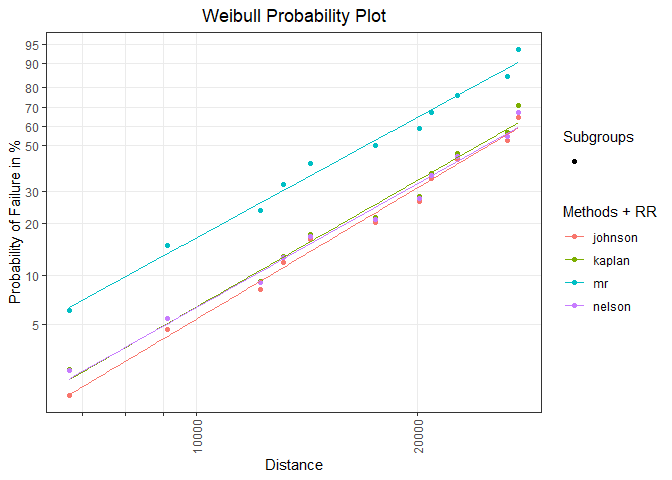
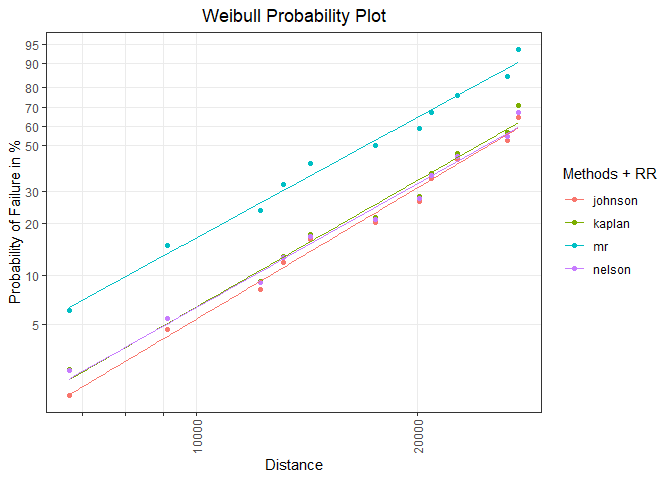
Closes #160. In addition: improved color label of ggplot2 plots

Changed region(s): [[0.8438, 0.4062, 0.9688, 0.6562], [0.8125, 0.3438, 1.0, 0.375], [0.8438, 0.25, 0.9375, 0.3125]]

diff --git a/docs/reference/index.html b/docs/reference/index.html
@@ -353,6 +353,12 @@
           <p><code><a href="plot_conf.html">plot_conf()</a></code> </p>
         </td>
         <td><p>Add Confidence Region(s) for Quantiles and Probabilities</p></td>
+      </tr><tr>
+        
+        <td>
+          <p><code><a href="plot_conf.default.html">plot_conf(<i>&lt;default&gt;</i>)</a></code> </p>
+        </td>
+        <td><p>Add Confidence Region(s) for Quantiles and Probabilities</p></td>
       </tr>
     </tbody><tbody>
       <tr>
@@ -471,12 +477,6 @@
         </td>
         <td><p>Add Estimated Population Lines of a Separated Mixture Model to a
 Probability Plot</p></td>
-      </tr><tr>
-        
-        <td>
-          <p><code><a href="plot_conf.default.html">plot_conf(<i>&lt;default&gt;</i>)</a></code> </p>
-        </td>
-        <td><p>Add Confidence Region(s) for Quantiles and Probabilities</p></td>
       </tr><tr>
         
         <td>

diff --git a/NEWS.md b/NEWS.md
@@ -1,72 +1,86 @@
 # weibulltools v2.0.0
 ## Breaking Changes
 * Package now depends on R(>= 3.5.0)
-* Renamed argument `event` with `status`.
-* Renamed argument `loc_sc_params` with `dist_params`.
-* Renamed argument `loc_sc_varcov` with `dist_varcov`.
-* Output of probability estimators: Renamed column `characteristic` with `x`.
-* Output of parameter estimators: Renamed and changed content of list elements. See `?ml_estimation` and `?rank_regression`.
-* Switched position of arguments `distribution` and `direction` in `plot_conf()`.
-* Removed `details` argument from `ml_estimation()` and `rank_regression()`.
-* `plot_pop()`: Added argument `tol` to restrict the range of failure probabilities. Removed argument `color`. Renamed argument `params` to `dist_params_tbl`, which only supports location and scale parameters (also for `distribution = "weibull"`). Changed behaviour of `dist_params_tbl`: A tibble is now recommended instead of a vector.
-* `plot_prob_mix`: Removed default value `NULL` for argument `mix_output`.
-* `dist_mileage()`: Removed `status` argument and switched argument positions of `x` and `mileage`  -> (`mileage`, `x`, `distribution`). Argument `x` was renamed to `time`.
-* `mcs_mileage()`: Removed arguments `seed` and `details`, incorporated new default argument `id`. For now, the argument `status` is optional. Argument positions of `x` and `mileage` are switched -> (`mileage`, `x`). Argument `x` was renamed to `time`. 
-* `mcs_delay_register()`, `mcs_delay_report()`, `mcs_delays()`: Argument `seed` and element `int_seed` of the output list have been removed. For reproducibility use `set.seed()` before calling one of these functions. Argument `x` was renamed to `time`.  
-* `confint_betabinom.default()` and `confint_fisher.default()`: New argument `b_lives`.
-* `loglik_function()`: Renamed argument `pars` with `dist_params`. 
-* `mixmod_em()`: Removed argument `post`.
+
+### Non-Parametric Failure Probabilities
+* `mr_method()`: Deprecated, use `estimate_cdf()` instead. Renamed output column `characteristic` with `x`. Set default value for `id` to `NULL`.
+* `johnson_method()`: Deprecated, use `estimate_cdf()` instead. Renamed output column `characteristic` with `x`. Set default value for `id` to `NULL`.
+* `kaplan_method()`: Deprecated, use `estimate_cdf()` instead. Renamed output column `characteristic` with `x`. Set default value for `id` to `NULL`.
+* `nelson_method()`: Deprecated, use `estimate_cdf()` instead. Renamed output column `characteristic` with `x`. Set default value for `id` to `NULL`.
+* `plot_prob.default()` (former `plot_prob()`): Renamed `event` with `status`.
+* `plot_prob_mix()`: Deprecated, use `plot_prob()` instead. Removed default value `NULL` for argument `mix_output`. Renamed `event` with `status`.
+
+### Parametric Models
+* `ml_estimation.default()` (former `ml_estimation()`): Renamed `event` with `status`. Removed `details`. Changed names and contents of list elements in output. See `?ml_estimation`.
+* `loglik_function`: Renamed `event` with `status`. Renamed `pars` with `dist_params`.
+* `rank_regression.default()` (former `rank_regression()`): Renamed `event` with `status`. Removed `details`. Changed names and contents of list elements in output. See `?rank_regression`.
+* `mixmod_em.default()` (former `mixmod_em()`): Renamed `event` with `status`. Removed `post`.
+* `mixmod_regression.default()` (former `mixmod_regression()`): Renamed `event` with `status`. 
+* `predict_prob()`: Renamed `loc_sc_params` with `dist_params`.
+* `predict_quantile()`: Renamed `loc_sc_params` with `dist_params`.
+* `plot_mod.default()` (former `plot_mod()`): Renamed `event` with `status`. Renamed `loc_sc_params` with `dist_params`. Removed `y`.
+* `plot_mod_mix()`: Deprecated, use `plot_mod()` instead. Renamed `event` with `status`.
+* `plot_pop()`: Added argument `tol` to restrict the range of failure probabilities. Removed argument `color`. Renamed argument `params` to `dist_params_tbl`, which only supports location and scale parameters (also for `distribution = "weibull"`). Changed behaviour of `dist_params_tbl`: A `tibble` is now recommended instead of a vector.
+
+### Confidence Intervals
+* `confint_betabinom.default()` (former `confint_betabinom()`): Renamed `event` with `status`. Renamed `loc_sc_params` with `dist_params`. Added argument `b_lives` which allows the user to specify probabilities of interest.
+* `confint_fisher.default()` (former `confint_fisher()`): Renamed `event` with `status`. Renamed `loc_sc_params` with `dist_params`. Renamed `loc_sc_varcov` with `dist_varcov`. Added argument `b_lives` which allows the user to specify probabilities of interest.
+* `delta_method()`: Renamed `loc_sc_params` with `dist_params`. Renamed `loc_sc_varcov` with `dist_varcov`.
+* `plot_conf.default()` (former `plot_conf()`): Switched position of arguments `direction` and `distribution`.
+
+### Monte Carlo Simulation
+* `dist_delay_register()`: Deprecated, use `dist_delay()` instead.
+* `dist_delay_report()`: Deprecated, use `dist_delay()` instead.
+* `mcs_delay_register()`: Deprecated, use `mcs_delay()` instead. Renamed `x` with `time`. Renamed `event` with `status`. Removed `seed` and `int_seed` from output.
+* `mcs_delay_report()`: Deprecated, use `mcs_delay()` instead. Renamed `x` with `time`. Renamed `event` with `status`. Removed `seed` and `int_seed` from output.
+* `mcs_delays()`: Deprecated, use `mcs_delay()` instead. Renamed `x` with `time`. Renamed `event` with `status`. Removed `seed` and `int_seed` from output.
+* `dist_mileage()`: Removed `event`. Renamed `x` with `time`. Switched position of arguments `time` and `mileage`.
+* `mcs_mileage()`: Removed `event`. Renamed `x` with `time`. Switched position of arguments `time` and `mileage`.
 
 ## New Features
 * Added support for ggplot2 in all plot functions. Plot method can be selected in `plot_prob()` or `plot_pop()` via argument `plot_method`.
-* Added function `reliability_data()`: Create consistent reliability data.
+* Added `reliability_data()`: Create consistent reliability data.
 * New argument in `mr_method()`: With `ties.method` it can be specified how ties should be treated.
 * Added `estimate_cdf()`: Unite functionality of `mr_method()`, `johnson_method()`, `kaplan_method()` and `nelson_method()`.
-* Support of multiple methods in `estimate_cdf()` and all functions that depend on the `cdf_estimation` (`rank_regression()`, `plot_prob()`, `plot_mod()`, `plot_conf()`, `mixmod_regression()`, `plot_prob_mix()`, `plot_mod_mix()`).
+* Support of multiple methods in `estimate_cdf()` and all functions that depend on the `cdf_estimation` (`rank_regression()`, `plot_prob()`, `plot_mod()`, `plot_conf()`, `mixmod_regression()`).
 * Added `print.rank_regression()`, `print.ml_estimation()`, `print.model_estimation()` and `print.model_estimation_list()`.
 * Added `vcov.model_estimation()`.
-* Added function `dist_delay()`: Generalizes the distribution-specific modeling of delays. 
-* Added function `mcs_delay()`: Generalizes the adjustment of operating times by delays and supports multiple delays at once.
+* Added `dist_delay()`: Generalizes the distribution-specific modeling of delays. 
+* Added `mcs_delay()`: Generalizes the adjustment of operating times by delays and supports multiple delays at once.
 * Added lifecycle badges
-
-## Minor Changes
 
 ## Introduction of S3 interface
 * `rank_regression()` is now an S3 generic. `rank_regression()` becomes `rank_regression.default()`. Added `rank_regression.cdf_estimation()`.
-* `plot_prob()` is now an S3 generic. `plot_prob()` becomes `plot_prob.default()`. Added `plot_prob.cdf_estimation()`.
-* `plot_prob_mix()` is now an S3 generic. `plot_prob_mix()` becomes `plot_prob.default()`. Added `plot_prob_mix.model_estimation()`, `plot_prob_mix.mixmod_regression()` and `plot_prob_mix.mixmod_em()`.
+* `plot_prob()` is now an S3 generic. `plot_prob()` becomes `plot_prob.default()`. Added `plot_prob.cdf_estimation()`, `plot_prob.model_estimation()`, `plot_prob.mixmod_regression()`, `plot_prob.mixmod_em()`, `plot_prob.mixmod_regression_list()`.
 * `plot_mod()` is now an S3 generic. `plot_mod()` becomes `plot_mod.default()`. Added `plot_mod.model_estimation()`.
 * `plot_conf()` is now an S3 generic. `plot_conf()` becomes `plot_conf.default()`. Added `plot_conf.confint()`.
 * `plot_pop()`: Added support for multiple population lines and comparison of two- and three-parametric distributions.
-* `confint_betabinom()`, `confint_fisher()`: Added argument `b_lives` which allows the user to specify probabilities of interest.
 
-## Documentation
-* Revised README
+## Documentation improvements
+* Revised README.
+* Revised vignettes.
 * Capitalized parameter documentation.
-* Revised documentation of `dist_mileage()` and `mcs_mileage()`.
-* Revised documentation of `mr_method()`, `kaplan_method()`, `johnson_method()` and `nelson_method()`.
-* Revised documentation of `rank_regression()` and `ml_estimation()`.
-* Revised documentation of `predict_quantile()` and `predict_prob()`.
-* Revised documentation of `r_squared_profiling()`, `loglik_profiling()` and `loglik_function()`.
-* Revised documentation of `delta_method()`.
-* Revised documentation of `confint_betabinom()` and `confint_fisher()`.
 
 ## Lifecycle changes
 
 ### Deprecated
-* `plot_layout()`
+* `dist_delay_register()` and `dist_delay_report()`: Use `dist_delay()` instead. 
+* `mcs_delay_register()`, `mcs_delay_report()` and `mcs_delays()`: Use `mcs_delay()` instead.
 * `mr_method()`, `johnson_method()`, `kaplan_method()` and `nelson_method()`: Use `estimate_cdf()` instead.
-* `dist_delay_register()` and `dist_delay_report()` are deprecated. Use `dist_delay()` instead. 
-* `mcs_delay_register()`, `mcs_delay_report()` and `mcs_delays()`  are deprecated. Use `mcs_delay()` instead.
-* `plot_prob_mix.default()` and `plot_mod_mix.default()`. Use further S3 methods instead.
+* `plot_prob_mix()`: Use `plot_prob()` instead.
+* `plot_mod_mix()`: Use `plot_mod()` instead.
+
+### Removed
+* `calculate_ranks`.
+* `mixture_em_cpp`.
+* `plot_layout`.
 
 ## Minor improvements and bug fixes
-* The default of `id` inside `mr_method()`, `johnson_method()`, `kaplan_method()` and `nelson_method()` is set to `NULL`. 
 * Fixed bug inside `plot_mod_mix()` for the case of no mixture distribution.
-* Fixed bug inside `confint_betabinom()`; many cases near one -> unique().
-* Fixed bug inside `mr_method()`: Assigning a rank for the same lifetime. 
+* Fixed bug inside `confint_betabinom()`: many cases near one -> `unique()`.
+* Fixed bug inside `mr_method()`: assigning a rank for the same lifetime. 
 * Fixed bug inside `mixmod_regression`: call to `segmented::segmented.lm()` was defective.
-* Added trace type "scatter" and scatter mode "markers" to `plot_layout`.
+* Added trace type `"scatter"` and scatter mode `"markers"` to plotly plots..
 * `delta_method()`, `r_squared_profiling()` and `loglik_profiling()` were vectorized.
 
 # weibulltools v1.0.1
